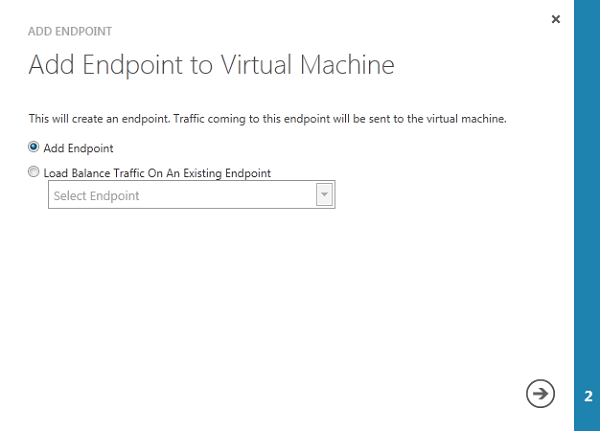
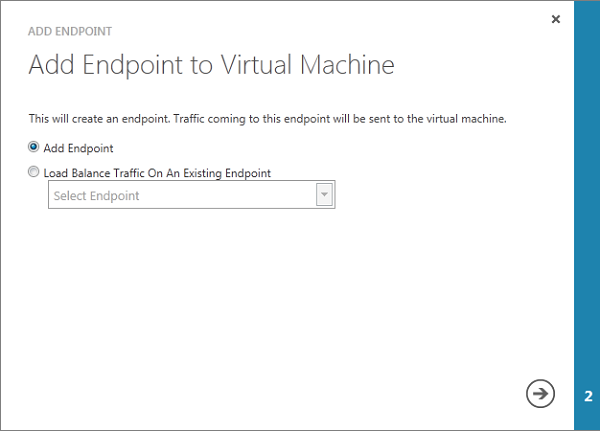
Removed gerunds, changed titles to sentence case, added border to some graphics

Changed region(s): [[0.0, 0.9954, 1.0, 1.0], [0.0, 0.0, 0.03, 0.0302]]

diff --git a/ITPro/Windows/CommonTasks/InstallingASQLServerVirtualMachine.md b/ITPro/Windows/CommonTasks/InstallingASQLServerVirtualMachine.md
@@ -1,29 +1,28 @@
-# Deploy a SQL Server Virtual Machine on Windows Azure #
+# Provision a SQL Server virtual machine on Windows Azure #
 
-The virtual machine gallery in Windows Azure provides virtual machine images of Windows Server 2008 R2, Service Pack 1 (64-bit) with a complete 64-bit installation of SQL Server. You can select one of the virtual machine images from the gallery and, with a few clicks, provision the virtual machine in your Windows Azure environment.
+The Windows Azure virtual machine gallery provides Windows Azure virtual machine images of Microsoft Windows Server 2008 R2, Service Pack 1 (64-bit) with a complete 64-bit installation of SQL Server. You can select one of the virtual machine images from the Windows Azure gallery and with a few clicks you can provision the virtual machine to your Windows Azure environment.
 
-**Note**: For information about how to upload your own virtual machine image, see [Creating and Uploading a Virtual Hard Drive that Contains the Windows Server Operating System](http://go.microsoft.com/fwlink/?LinkId=252920).
+To upload your own virtual machine image instead of using an image from the gallery, see [Creating and Uploading a Virtual Hard Drive that Contains the Windows Server Operating System](http://go.microsoft.com/fwlink/?LinkId=252920).
 
-In this tutorial, you will:
+In this tutorial you will:
 
-- [Provision a virtual machine from the gallery in Windows Azure](#Provision)
-- [Connect to the virtual machine using Remote Desktop Connection and complete Setup](#RemoteDesktop)
-- [Complete configuration steps to connect to the virtual machine using SQL Server Management Studio on another computer](#SSMS)
-- [Learn about optional next steps](#Optional)
+- [Connect to the Windows Azure Management Portal and Provision a Virtual Machine from the Gallery](#Provision)
+- [Open the Virtual Machine Using Remote Desktop and Complete Setup](#RemoteDesktop)
+- [Complete Configuration Steps to Connect to the Virtual Machine Using SQL Server Management Studio on Another Computer](#SSMS)
+- [Optional Next Steps](#Optional)
 
-<h2 id="Provision">Provision a virtual machine from the gallery in Windows Azure</h2>
+<h2 id="Provision">Connect to the Windows Azure management portal and provision a virtual machine from the gallery</h2>
 
-1. Log in to the [Windows Azure Management Portal](https://manage.windowsazure.com) using your account. If you do not have a Windows Azure account, visit [Windows Azure 3 Month free trial](http://www.windowsazure.com/en-us/pricing/free-trial/).
+1. Login to the Windows Azure Management Portal [https://manage.windowsazure.com](https://manage.windowsazure.com) using your account. (If you do not have a Windows Azure account, visit [Windows Azure 3 Month free trial](http://www.windowsazure.com/en-us/pricing/free-trial/)).
 	![Connect to Portal] [Image1]
-2. In the portal, at the bottom left of the web page, click **+NEW**, click **VIRTUAL MACHINE**, and then click **FROM GALLERY**.
+2. On the Windows Azure Management Portal, at the bottom left of the web page, click **+NEW**, click **VIRTUAL MACHINE**, and then click **FROM GALLERY**.
 
 	![Open the gallery] [Image2]
 
-3. Select a virtual machine image that includes SQL Server, and then click the next arrow. For information about licensing, see [License Mobility Through Software Assurance](http://www.microsoft.com/licensing/software-assurance/license-mobility.aspx).
-
+3. Select a virtual machine image containing SQL Server, and then click the next arrow at the bottom right of the page. For information about licensing, see [License Mobility Through Software Assurance](http://www.microsoft.com/licensing/software-assurance/license-mobility.aspx).
 
     <div class="dev-callout"> 
-<b>Note</b>    
+    <b>Note</b> 
     <p>The evaluation edition is available for testing but cannot be upgraded to a per-hour paid edition.</p> 
     </div>
 
@@ -39,24 +38,23 @@ In this tutorial, you will:
 
     <div class="dev-callout"> 
     <b>Note</b> 
-    <p>Considerations related to size:</p>
-	<ul>
-	<li>Medium is the smallest size recommended for production workloads.</li>
-	<li>Select Large or Extra Large when using SQL Server Enterprise Edition.</li>
-	<li>The size selected limits the number of disks you can configure. (Extra Small &lt;= 1, Small &lt;= 2, Medium &lt;= 4, Large &lt;= 8, Extra Large &lt;= 16)</li>
-</ul>
+    <p>Considerations related to size:
+- Medium is the smallest size recommended for production workloads. 
+- Select Large or Extra Large when using SQL Server Enterprise Edition.
+- The size selected limits the number of disks you can configure. (Extra Small <= 1, Small <= 2, Medium <= 4, Large <= 8, Extra Large <= 16)
+    </p> 
     </div>
 
-   Click the next arrow to continue.
+   Click the next arrow in the bottom left (->) to continue.
 
 	![VM Configuration] [Image4]
 
 
 
-5. On the **VM Mode** page, provide the following information:
+5. On **VM Mode** page, provide the following information:
 - Select **Standalone Virtual Machine**.
-- In the **DNS NAME** box, provide the first portion of the DNS name so that it completes a name in the format **TESTNAME.cloudapp.net**
-- In the **REGION/AFFINITY GROUP/VIRTUAL NETWORK** box, select a region.
+- In the **DNS NAME** box, provide the first portion of the DNS name, so that it completes a name in the format **TESTNAME.cloudapp.net**
+- In the **REGION/AFFINITY GROUP/VIRTUAL NETWORK** box, select a region where this virtual image will be hosted.
 
    Click the next arrow to continue.
 
@@ -70,29 +68,29 @@ In this tutorial, you will:
 
 7. Click the check mark in the bottom right corner to continue.
 
-8. Wait while Windows Azure provisions your virtual machine.
+8. Wait while Windows Azure prepares your virtual machine.
 
 	![VM Options] [Image7]
 
-<h2 id="RemoteDesktop">Connect to the virtual machine using Remote Desktop Connection and complete setup</h2>
+<h2 id="RemoteDesktop">Open the virtual machine using Remote Desktop and complete setup</h2>
 
-1. In the Windows Azure Management Portal, select your virtual machine, and then click DASHBOARD.
+1. On the Windows Azure Management Portal, select your virtual machine, and select the DASHBOARD page.
 
 	![Select Dashboard Page] [Image31]
 2. At the bottom of the page, click **Connect**.
 
-3. Open the .rpd file using Remote Desktop Connection (`%windir%\system32\mstsc.exe`).
+3. Choose to open the rpd file using the Windows Remote Desktop program (`%windir%\system32\mstsc.exe`).
 
 	![Click Open] [Image8]
-3. In the **Windows Security** dialog box, provide the password for the administrator account that you specified in an earlier step. (You might be asked to verify the credentials of the virtual machine.)
+3. At the **Windows Security** dialog box, provide the password for the **Administrator** account that you specified in an earlier step. (You might be asked to verify the credentials of the virtual machine.)
 
-4. The first time you log on to this virtual machine, several processes might need to complete, including setup of your desktop, Windows updates, and completion of the Windows initial configuration tasks (sysprep). After Windows sysprep completes, SQL Server Setup  completes its configuration tasks. `SELECT @@SERVERNAME` might not return the correct name until SQL Server Setup completes.
+4. The first time you log on to this virtual machine, several processes may need to complete, including setup of your desktop, Windows updates, and completion of the Windows initial configuration tasks (sysprep). After Windows sysprep completes, SQL Server setup  completes configuration tasks. These tasks make cause a short delay while they complete. `SELECT @@SERVERNAME` may not return the correct name until SQL Server setup completes.
 
-After you are connected to the virtual machine, the virtual machine works much like any other computer. Connect to the default instance of SQL Server with SQL Server Management Studio (running on the virtual machine) in the normal way. For more information about how to connect to the Database Engine, see [Tutorial: Getting Started with the Database Engine](http://msdn.microsoft.com/en-us/library/ms345318.aspx).
+Once you are connected to the virtual machine with Windows Remote Desktop, the virtual machine works much like any other computer. Connect to the default instance of SQL Server with SQL Server Management Studio (running on the virtual machine) in the normal way. If you need additional training on connecting to the Database Engine, see [Tutorial: Getting Started with the Database Engine](http://msdn.microsoft.com/en-us/library/ms345318.aspx).
 
-<h2 id="SSMS">Complete configuration steps to connect to the virtual machine using SQL Server Management Studio on another computer</h2>
+<h2 id="SSMS">Complete Configuration steps to connect to the virtual machine Using SQL Server Management Studio on another computer</h2>
 
-Before you can connect to the instance of SQL Server from the Internet, you have to complete the following tasks:
+Before you can connect to the instance of SQL Server from the internet, the following tasks must be completed:
 
 - Configure SQL Server to listen on the TCP protocol and restart the Database Engine.
 - Open TCP ports in the Windows firewall.
@@ -103,7 +101,7 @@ Before you can connect to the instance of SQL Server from the Internet, you have
 
 ### Configure SQL Server to listen on the TCP protocol and restart the Database Engine. ###
 
-1. While you are connected to the virtual machine by using Remote Desktop Connection, click Start, click **All Programs**, click **Microsoft SQL Server** *version*, click **Configuration Tools**, and then click **SQL Server Configuration Manager**.
+1. While connected to the virtual machine by using Remote Desktop, on the Start menu, click **All Programs**, click **Microsoft SQL Server** *version*, click **Configuration Tools**, and then click **SQL Server Configuration Manager**.
 
     ![Open SSCM] [Image9]
 
@@ -117,13 +115,13 @@ Before you can connect to the instance of SQL Server from the Internet, you have
 
 5. In the console pane, click **SQL Server Services**.
 
-6. In the details pane, right-click **SQL Server (** *instance name* **)** (the default instance is **SQL Server (MSSQLSERVER)**), and then click **Restart**. 
+6. In the details pane, right-click **SQL Server (***instance name***)** (the default instance is **SQL Server (MSSQLSERVER)**), and then click **Restart**, to stop and restart the instance of SQL Server. 
 
     ![Restart Database Engine] [Image11]
 
 7. Close SQL Server Configuration Manager.
 
-For more information about how to enable protocols for the SQL Server Database Engine, see [Enable or Disable a Server Network Protocol](http://msdn.microsoft.com/en-us/library/ms191294.aspx).
+For more information about enabling protocols for the SQL Server Database Engine, see [Enable or Disable a Server Network Protocol](http://msdn.microsoft.com/en-us/library/ms191294.aspx).
 
 ### Open TCP ports in the Windows firewall for the default instance of the Database Engine ###
 
@@ -151,7 +149,7 @@ For more information about how to enable protocols for the SQL Server Database E
 
 7. In the **Profile** dialog box, select **Public**, and then click **Next**. 
 
-    **Security Note:**  Selecting **Public** allows access over the Internet. Whenever possible, select a more restrictive profile.
+    **Security Note:**  Selecting **Public** allows access over the internet. Whenever possible, select a more restrictive profile.
 
     ![Public Profile] [Image16]
 
@@ -161,15 +159,15 @@ For more information about how to enable protocols for the SQL Server Database E
 
 Open additional ports for other components as needed. For more information, see [Configuring the Windows Firewall to Allow SQL Server Access](http://msdn.microsoft.com/en-us/library/cc646023.aspx).
 
-### Configure SQL Server for mixed mode authentication. ###
+### Configure SQL Server for mixed mode authentication ###
 
-The SQL Server Database Engine cannot use Windows Authentication without a domain environment. To connect to the Database Engine from a computer outside of the domain, configure SQL Server for mixed mode authentication. Mixed mode authentication allows both SQL Server Authentication and Windows Authentication. (Configuring mixed mode authentication might not be necessary if you have configured a Windows Azure Virtual Network. For more information about Windows Azure Virtual Network, see [Overview of Windows Azure Virtual Network](http://go.microsoft.com/fwlink/?LinkId=251117).)
+The SQL Server Database Engine cannot use Windows Authentication without domain environment. To connect to the Database Engine from a computer outside of the domain, configure SQL Server for mixed mode authentication. Mixed mode authentication allows both SQL Server Authentication and Windows Authentication. (Configuring mixed mode authentication might not be necessary if you have configured a Windows Azure Virtual Network. For more information about Windows Azure Virtual Network, see [Overview of Windows Azure Virtual Network](http://go.microsoft.com/fwlink/?LinkId=251117).)
 
 1. While connected to the virtual machine by using Remote Desktop, on the Start menu, click **All Programs**, click **Microsoft SQL Server** *version*, and then click **SQL Server Management Studio**. 
 
     ![Start SSMS] [Image18]
 
-2. When opening, Management Studio presents the **Connect to Server** dialog box. In the **Server name** box, type the name of the virtual machine to connect to the Database Engine  with the Object Explorer. (Instead of the virtual machine name you can also use **(local)** or a single period as the **Server name**. Select **Windows Authentication**, and leave *your_VM_name* **\Administrator** in the **User name** box. Click **Connect**.
+2. When opening, Management Studio presents the **Connect to Server** dialog box. In the **Server name** box, type the name of the virtual machine to connect to the Database Engine  with the Object Explorer. (Instead of the virtual machine name you can also use **(local)** or a single period as the **Server name**. Select **Windows Authentication**, and leave *your_VM_name***\Administrator** in the **User name** box. Click **Connect**.
 
     ![Connect to Server] [Image19]
 
@@ -295,21 +293,21 @@ If you can connect to an instance of SQL Server running on a Windows Azure virtu
 
 - [How to Troubleshoot Connecting to the SQL Server Database Engine](http://social.technet.microsoft.com/wiki/contents/articles/how-to-troubleshoot-connecting-to-the-sql-server-database-engine.aspx)
 
-<h2 id="Optional">Learn about optional next steps</h2>
+<h2 id="Optional">Optional Next Steps</h2>
 
-### Migrating an existing database ###
+### Migrate an existing database ###
 
 Your existing database can be moved to this new instance of the Database Engine by using any of the following methods.
 
 - Copy a database backup file to the virtual machine and then restore the database. For more information, see [Back Up and Restore of SQL Server Databases](http://msdn.microsoft.com/en-us/library/ms187048(SQL.90).aspx).
-- By using a data-tier application (DAC). Either deploy a data-tier application with just the database schema or import a database along with the database data by using a BACPAC file. For more information, see [Deploy a Data-tier Application](http://msdn.microsoft.com/en-us/library/ee210569.aspx), [Import a BACPAC File to Create a New User Database](http://msdn.microsoft.com/en-us/library/hh710052.aspx), and [How to Use Data-Tier Application Import and Export with SQL Database (en-US)](http://social.technet.microsoft.com/wiki/contents/articles/2639.how-to-use-data-tier-application-import-and-export-with-sql-azure-en-us.aspx).
+- By using a data-tier application (DAC). Either deploy a data-tier application with just the database schema or import a database along with the database data by using a BACPAC file. For more information, see [Deploy a Data-tier Application](http://msdn.microsoft.com/en-us/library/ee210569.aspx), [Import a BACPAC File to Create a New User Database](http://msdn.microsoft.com/en-us/library/hh710052.aspx), and [How to Use Data-Tier Application Import and Export with SQL Azure (en-US)](http://social.technet.microsoft.com/wiki/contents/articles/2639.how-to-use-data-tier-application-import-and-export-with-sql-azure-en-us.aspx).
 - Copy the **mdf**, **ndf**, and **ldf** files to a folder on the virtual machine, and then attach the database. For more information, see [Attach a Database](http://msdn.microsoft.com/en-us/library/ms190209.aspx).
 - Create scripts of the source database, and execute the scripts on this new instance of SQL Server. For more information, see [Generate and Publish Scripts Wizard](http://msdn.microsoft.com/en-us/library/bb895179.aspx).
 - By using [Copy Database Wizard](http://msdn.microsoft.com/en-us/library/ms188664.aspx) in Management Studio.
 
-**Copying files to a virtual machine**
+**Copy files to a virtual machine**
 
-Small files (database backups or DACPAC files) can be copied to the virtual machine using copy/paste while connected using remote desktop. To transfer large files, select one of the following options.
+Small files (database backups or DACPAC files) can be copied to the virtual machine using copy/paste while connected using remote desktop. To transfer large files select one of the following options.
 
 - Upload the file to BLOB storage in the same datacenter as the virtual machine, and then RDP to the virtual machine and download the file from BLOB storage. For more information, see [Windows Azure Storage](http://www.windowsazure.com/en-us/home/features/storage/).
 
@@ -319,13 +317,13 @@ Small files (database backups or DACPAC files) can be copied to the virtual mach
 
 - Use a web browser to download a database from the Internet, such as downloading Adventure Works from codeplex [Download an AdventureWorks database](http://msftdbprodsamples.codeplex.com/).
 
-For more information about migrating a database to Windows Azure, see [Guide to Migrating Existing applications and Databases to Windows Azure](http://go.microsoft.com/fwlink/?LinkId=249158).
+For more information about migrating a database to the Windows Azure Platform, see [Guide to Migrating Existing applications and Databases to Windows Azure Platform](http://go.microsoft.com/fwlink/?LinkId=249158).
 
 ### Turn off write caching ###
 
-For best performance, the Database Engine requires write caching to be OFF for both data and operating system disks. OFF is the default setting for data disks, for both read and write operations. However, ON is the default write caching setting for the operating system disk. New users who are evaluating performance on a simple single disk system should configure write caching to be OFF for the operating system disk. For instructions on configuring write caching, see How to Use PowerShell for Windows Azure.
+For best performance, the Database Engine requires write caching to be OFF for both data and operating system disks. OFF is the default setting for data disks, for both read and write operations. However, ON is the default write caching setting for the operating system disk. New users who are evaluating performance on a simple single disk system should configure write caching to be OFF for the operating system disk. For instructions on configuring write caching, see [How to Use PowerShell for Windows Azure](http://go.microsoft.com/fwlink/?LinkId=254236).
 
-### Creating database users ###
+### Create database users ###
 
 To have access to a user database, logins that are not members of the sysadmin fixed server role must be mapped to database user. To do this you must create a database user. For more information about database users, see [Create a Database User](http://msdn.microsoft.com/en-us/library/aa337562.aspx).
 
@@ -334,39 +332,39 @@ To have access to a user database, logins that are not members of the sysadmin f
 The SQL Server setup media is saved on the virtual machine in the C:\SqlServer_11.0_Full directory. Run setup from this directory to perform any setup actions including add or remove features, add a new instance, repair the instance, etc.
 
 
-[Image1]: ../media/1Login.png
-[Image2]: ../media/2select-gallery.png
-[Image3]: ../media/3Select-Image.png
-[Image4]: ../media/4VM-Config.png
-[Image5]: ../media/5VM-Mode.png
-[Image6]: ../media/6VM-Options.png
-[Image7]: ../media/7VM-Provisioning.png
+[Image1]: media/1Login.png
+[Image2]: media/2select-gallery.png
+[Image3]: media/3Select-Image.png
+[Image4]: media/4VM-Config.png
+[Image5]: media/5VM-Mode.png
+[Image6]: media/6VM-Options.png
+[Image7]: media/7VM-Provisioning.png
 
-[Image8]: ../media/8VM-Connect.png
-[Image9]: ../media/9Click-SSCM.png
-[Image10]: ../media/10Enable-TCP.png
-[Image11]: ../media/11Restart.png
-[Image12]: ../media/12Open-WF.png
-[Image13]: ../media/13New-FW-Rule.png
-[Image14]: ../media/14Port-1433.png
-[Image15]: ../media/15Allow-Connection.png
-[Image16]: ../media/16Public-Profile.png
-[Image17]: ../media/17Rule-Name.png
-[Image18]: ../media/18Start-SSMS.png
-[Image19]: ../media/19Connect-to-Server.png
-[Image20]: ../media/20Server-Properties.png
-[Image21]: ../media/21Mixed-Mode.png
-[Image22]: ../media/22Restart2.png
-[Image23]: ../media/23New-Login.png
-[Image24]: ../media/24Test-Login.png
-[Image25]: ../media/25sysadmin.png
+[Image8]: media/8VM-Connect.png
+[Image9]: media/9Click-SSCM.png
+[Image10]: media/10Enable-TCP.png
+[Image11]: media/11Restart.png
+[Image12]: media/12Open-WF.png
+[Image13]: media/13New-FW-Rule.png
+[Image14]: media/14Port-1433.png
+[Image15]: media/15Allow-Connection.png
+[Image16]: media/16Public-Profile.png
+[Image17]: media/17Rule-Name.png
+[Image18]: media/18Start-SSMS.png
+[Image19]: media/19Connect-to-Server.png
+[Image20]: media/20Server-Properties.png
+[Image21]: media/21Mixed-Mode.png
+[Image22]: media/22Restart2.png
+[Image23]: media/23New-Login.png
+[Image24]: media/24Test-Login.png
+[Image25]: media/25sysadmin.png
 
-[Image26]: ../media/26Select-your-VM.png
-[Image27]: ../media/27VM-Connect.png
-[Image28]: ../media/28Add-Endpoint.png
-[Image29]: ../media/29Add-Endpoint-to-VM.png
-[Image30]: ../media/30Endpoint-Details.png
-[Image31]: ../media/31VM-Connect.png
+[Image26]: media/26Select-your-VM.png
+[Image27]: media/27VM-Connect.png
+[Image28]: media/28Add-Endpoint.png
+[Image29]: media/29Add-Endpoint-to-VM.png
+[Image30]: media/30Endpoint-Details.png
+[Image31]: media/31VM-Connect.png
 
-[Image32]: ../media/32DNS-Name.png
-[Image33]: ../media/33Connect-SSMS.png
+[Image32]: media/32DNS-Name.png
+[Image33]: media/33Connect-SSMS.png

diff --git a/ITPro/Windows/CommonTasks/GettingStartedwithSQLServeronaWindowsAzureVirtualMachine.md b/ITPro/Windows/CommonTasks/GettingStartedwithSQLServeronaWindowsAzureVirtualMachine.md
@@ -1,4 +1,4 @@
-# Getting Started with SQL Server on a Windows Azure Virtual Machine
+# Getting started with SQL Server on a Windows Azure virtual machine
 
 The Windows Azure virtual machine gallery provides Windows Azure virtual machine images of Microsoft Windows Server 2008 R2, Service Pack 1 (64-bit) with  a complete 64-bit installation of SQL Server. A version of this virtual machine is available with SQL Server 2012 Evaluation (64-bit).
 
@@ -7,7 +7,7 @@ The Windows Azure virtual machine gallery provides Windows Azure virtual machine
 <p>The evaluation edition is available for testing but cannot be upgraded to a per-hour  paid edition.</p> 
 </div>
 
-## About this Virtual Machine Image
+## About this virtual machine image
 
 ###Windows Server 2008 R2
 
@@ -43,7 +43,7 @@ This SQL Server installation contains the following components.
 * Client Tools Connectivity, Client Tools SDK, and SQL Client Connectivity SDK.
 * SQL Server Books Online (SQL Server 2008 R2 only)
 
-### Database Engine Configuration
+### Database Engine configuration
 
 - Contains a default (unnamed) instance of the SQL Server Database Engine, listening only on the shared memory protocol.
 - The Database Engine is configured to use Windows Authentication only. 
@@ -53,15 +53,15 @@ This SQL Server installation contains the following components.
 
 ## How to Connect To this Instance of SQL Server
 
-### Connecting from Management Studio running on this VM
+### Connect from Management Studio running on this VM
 
 In the Management Studio **Connect to server** dialog box, enter the of the virtual computer in the **Server name** box. For more information, see [Tutorial: Getting Started with the Database Engine](http://msdn.microsoft.com/en-us/library/ms345318.aspx).
 
-### Connecting from the Internet by using Management Studio
+### Connect from the Internet by using Management Studio
 
-Additional configuration of SQL Server, the virtual machine, and Windows Azure is required to connect to SQL Server over the internet. For more information, see [Deploying a SQL Server Virtual Machine on Windows Azure](http://go.microsoft.com/fwlink/?LinkId=251117).
+Additional configuration of SQL Server, the virtual machine, and Windows Azure is required to connect to SQL Server over the internet. For more information, see [Provision a SQL Server Virtual Machine on Windows Azure](http://go.microsoft.com/fwlink/?LinkId=251117).
  
-### Connecting from Management Studio running on another computer using Windows Azure Virtual Network
+### Connect from Management Studio running on another computer using Windows Azure Virtual Network
 
 Windows Azure Virtual Network allows a virtual machine hosted on Windows Azure to interact more easily with your private network. There are multiple steps to properly configure the Windows Azure Virtual Network settings. Some configurations create optimal performance. Others are optimized for cost. For more information about Windows Azure Virtual Network, see [Overview of Windows Azure Virtual Network](http://go.microsoft.com/fwlink/?LinkId=251117).
 
@@ -73,7 +73,7 @@ Windows Azure Virtual Network allows a virtual machine hosted on Windows Azure t
 
 Additional links to be determined.
  
-### Connecting from your application running on another computer
+### Connect from your application running on another computer
 
 Provide a connection string similar to
 	
@@ -81,9 +81,9 @@ Provide a connection string similar to
 
 where VM_Name is the name you provided for this virtual machine during setup.
 
-## Next Steps
+## Next steps
 
-### Migrating an Existing Database
+### Migrating an existing database
 Your existing database can be moved to this new instance of the Database Engine by using any of the following methods.
 
 - Restore a database backup.
@@ -91,20 +91,20 @@ Your existing database can be moved to this new instance of the Database Engine 
 - Create scripts of the source database, and execute the scripts on this new instance of SQL Server.
 - By using Copy Database Wizard in Management Studio.
 
-For more information about migrating a database to SQL Server on a Windows Azure virtual machine, see [Guide to Migrating Existing applications and Databases to Windows Azure](http://go.microsoft.com/fwlink/?LinkId=249158) and migration steps near the end of [Deploying a SQL Server Virtual Machine on Windows Azure](http://go.microsoft.com/fwlink/?LinkId=251117).
+For more information about migrating a database to SQL Server on a Windows Azure virtual machine, see [Guide to Migrating Existing applications and Databases to Windows Azure](http://go.microsoft.com/fwlink/?LinkId=249158) and migration steps near the end of [Provision a SQL Server virtual machine on Windows Azure](http://go.microsoft.com/fwlink/?LinkId=251117).
 
-### Turn Off Write Caching
+### Turn off write caching
 
-For best performance, the Database Engine requires write caching to be OFF for both data and operating system disks. OFF is the default setting for data disks, for both read and write operations. However, ON is the default write caching setting for the operating system disk. New users who are evaluating performance on a simple single disk system should configure write caching to be OFF for the operating system disk. For instructions on configuring write caching, see How to Use PowerShell for Windows Azure.
+For best performance, the Database Engine requires write caching to be OFF for both data and operating system disks. OFF is the default setting for data disks, for both read and write operations. However, ON is the default write caching setting for the operating system disk. New users who are evaluating performance on a simple single disk system should configure write caching to be OFF for the operating system disk. For instructions on configuring write caching, see [How to Use PowerShell for Windows Azure](http://go.microsoft.com/fwlink/?LinkId=254236).
 
-### Create New Logins and Users
+### Create new logins and users
 
 Create new Windows users, SQL Server Windows Authentication logins, and database users as you would any on-premises database. If you intend to use SQL Server Authentication you must configure the Database Engine for mixed mode authentication. The sa account is currently disabled. For information about how to change the authentication mode and enable the sa account, see [Change Server Authentication Mode](http://msdn.microsoft.com/en-us/library/ms188670.aspx).
 
-### Adding Additional Instances of the Database Engine
+### Add additional instances of the Database Engine
 
 The SQL Server setup media is saved on the virtual machine in the **C:\SQLServer\_&lt;version&gt;\_Full** directory. Run setup from this directory to perform any setup actions including add or remove features, add a new instance, repair the instance, etc.
 
-## Additional Information
+## Additional information
 
-* For a tutorial on installing a virtual machine and connecting to SQL Server, see [Deploying a SQL Server Virtual Machine](http://go.microsoft.com/fwlink/?LinkId=248281).
+* For a tutorial on installing a virtual machine and connecting to SQL Server, see [Provision a SQL Server virtual machine on Windows Azure](http://go.microsoft.com/fwlink/?LinkId=248281).
